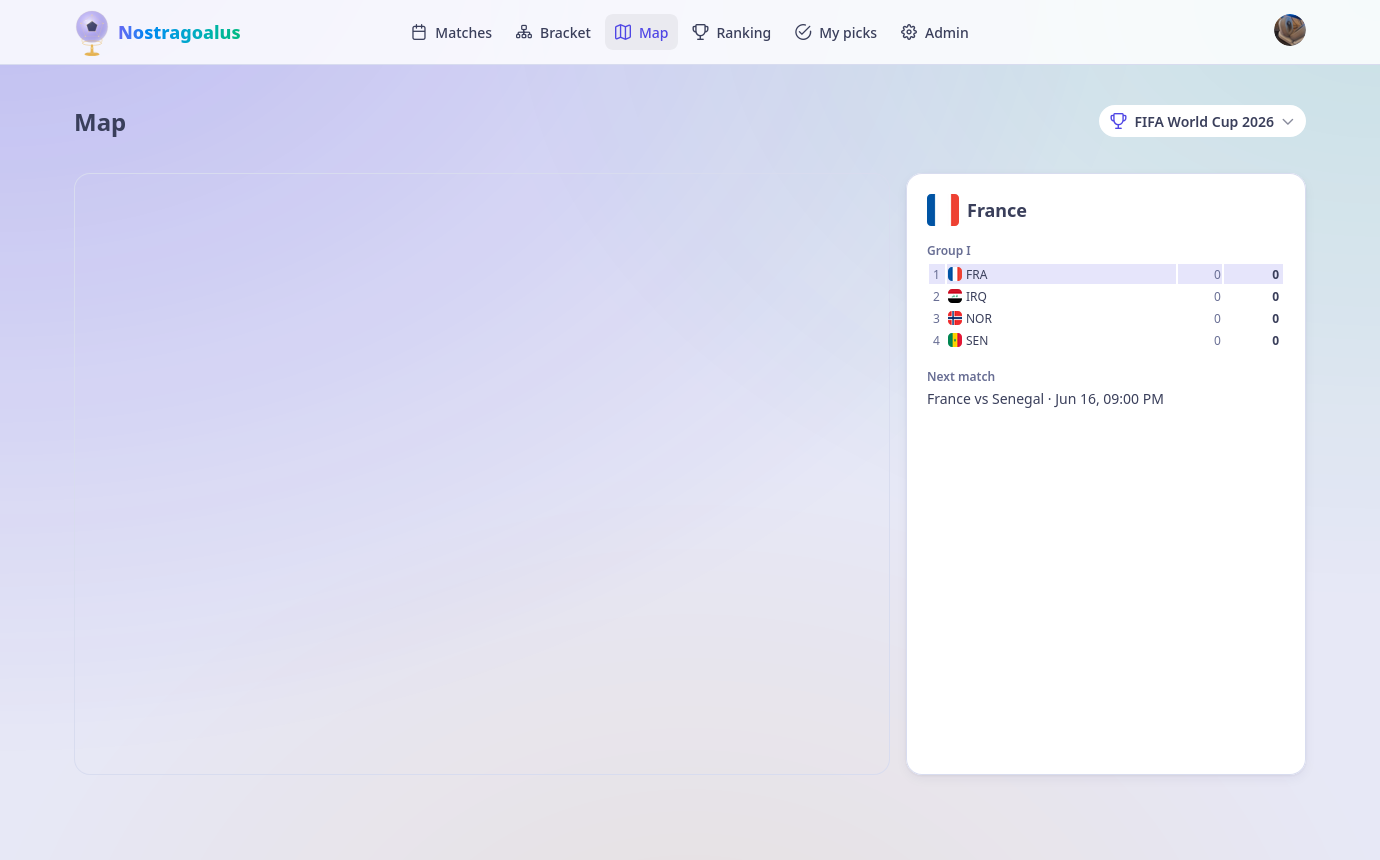
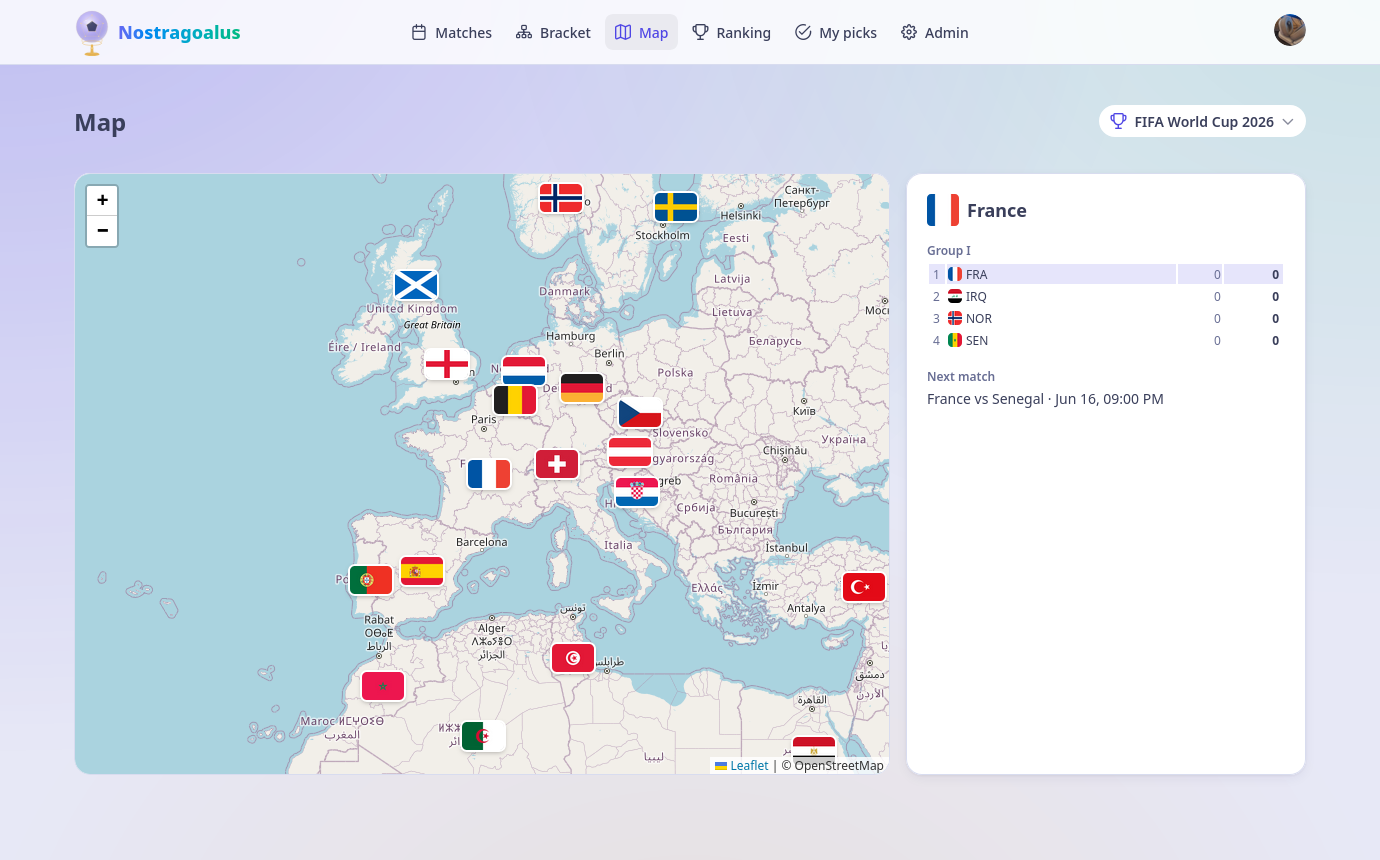
fix(showcase): map screenshot captured via client-side navigation (.client component skips mounting on direct loads in headless FF; tiles+markers now visible, FRA selected through its marker); showcase rows replaced with a PrimeVue Carousel (circular, 5s autoplay, captioned)

Changed region(s): [[0.0312, 0.1814, 0.6543, 0.907], [0.3116, 0.8163, 0.3739, 0.8767]]

diff --git a/app/pages/index.vue b/app/pages/index.vue
@@ -193,25 +193,28 @@ onMounted(() => {
     <!-- Showcase: real screenshots over the demo league -->
     <section class="max-w-5xl mx-auto w-full">
       <h2 class="text-3xl font-extrabold text-center mb-2">{{ t('landing.showcaseTitle') }}</h2>
-      <p class="text-center mb-10" style="color: var(--p-text-muted-color)">{{ t('landing.showcaseSub') }}</p>
-      <div class="flex flex-col gap-14">
-        <div
-          v-for="(shot, i) in ['fixtures', 'match', 'ranking', 'bracket', 'map', 'team']"
-          :key="shot"
-          class="grid md:grid-cols-5 gap-6 items-center"
-        >
-          <div class="md:col-span-2" :class="i % 2 ? 'md:order-2' : ''">
-            <h3 class="text-xl font-bold mb-2">{{ t(`landing.shot.${shot}.t`) }}</h3>
-            <p class="text-sm" style="color: var(--p-text-muted-color)">{{ t(`landing.shot.${shot}.d`) }}</p>
-          </div>
-          <div class="md:col-span-3 rounded-xl overflow-hidden border shadow-xl" style="border-color: var(--p-content-border-color)">
-            <div class="flex items-center gap-1.5 px-3 py-2" style="background: var(--p-content-background); border-bottom: 1px solid var(--p-content-border-color)">
-              <span class="w-2.5 h-2.5 rounded-full" style="background: #f87171" /><span class="w-2.5 h-2.5 rounded-full" style="background: #fbbf24" /><span class="w-2.5 h-2.5 rounded-full" style="background: #34d399" />
+      <p class="text-center mb-8" style="color: var(--p-text-muted-color)">{{ t('landing.showcaseSub') }}</p>
+      <Carousel
+        :value="['fixtures', 'match', 'ranking', 'bracket', 'map', 'team']"
+        :num-visible="1"
+        :num-scroll="1"
+        circular
+        :autoplay-interval="5000"
+        :show-indicators="true"
+      >
+        <template #item="{ data: shot }">
+          <div class="px-2 sm:px-10 pb-2">
+            <div class="rounded-xl overflow-hidden border shadow-xl" style="border-color: var(--p-content-border-color)">
+              <div class="flex items-center gap-1.5 px-3 py-2" style="background: var(--p-content-background); border-bottom: 1px solid var(--p-content-border-color)">
+                <span class="w-2.5 h-2.5 rounded-full" style="background: #f87171" /><span class="w-2.5 h-2.5 rounded-full" style="background: #fbbf24" /><span class="w-2.5 h-2.5 rounded-full" style="background: #34d399" />
+                <span class="ml-2 text-xs font-semibold">{{ t(`landing.shot.${shot}.t`) }}</span>
+              </div>
+              <img :src="`/showcase/${shot}.png`" :alt="t(`landing.shot.${shot}.t`)" class="block w-full" loading="lazy" >
             </div>
-            <img :src="`/showcase/${shot}.png`" :alt="t(`landing.shot.${shot}.t`)" class="block w-full" loading="lazy" >
+            <p class="text-sm text-center mt-3 max-w-2xl mx-auto" style="color: var(--p-text-muted-color)">{{ t(`landing.shot.${shot}.d`) }}</p>
           </div>
-        </div>
-      </div>
+        </template>
+      </Carousel>
     </section>
 
     <!-- FAQ -->